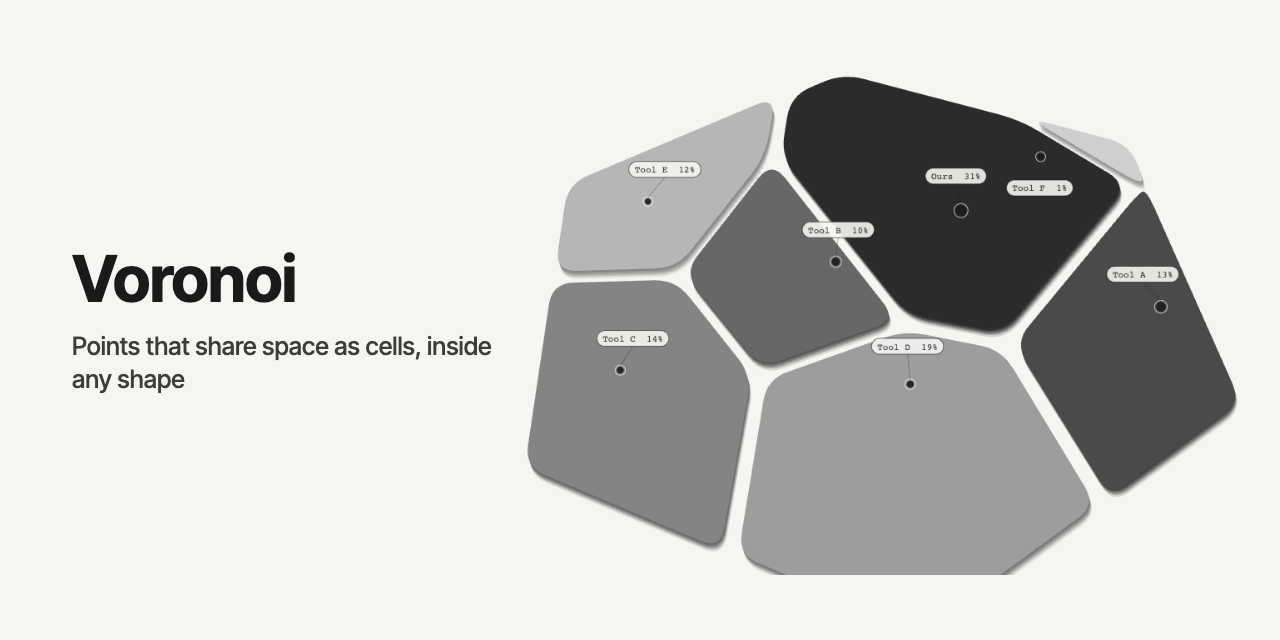
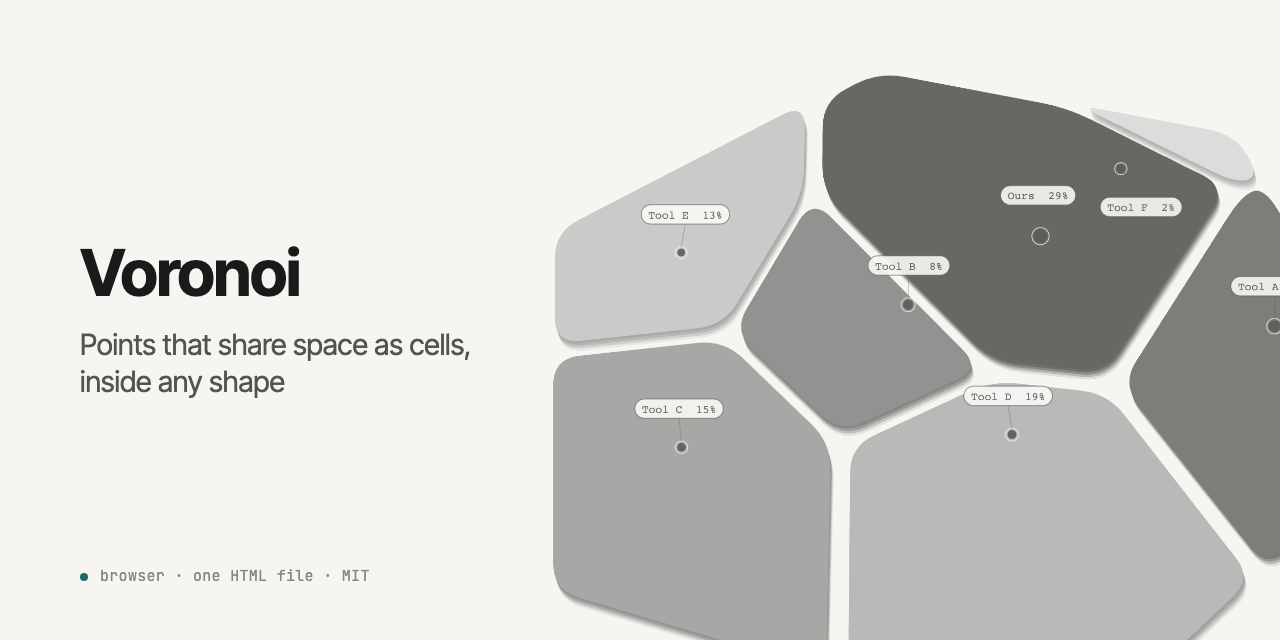
Cover, preview and search-friendly description

diff --git a/index.html b/index.html
@@ -91,7 +91,7 @@
   .cdot{width:14px;height:14px;padding:0;border:1px solid var(--line);border-radius:50%;background:none;cursor:pointer}
   body.noui #panel,body.noui #hint,body.noui #mtrans{display:none}
 </style>
[2 lines of base64/hex data omitted]
 <style>
 :root{--h-bg:#f6f5f2;--h-card:#ecebe6;--h-field:#ffffff;--h-ink:#1a1a1a;--h-ink2:#3d3c39;--h-ink3:#5c5b57;--h-fill:rgba(26,26,26,.07);--h-fill-hover:rgba(26,26,26,.10);--h-fill-strong:rgba(26,26,26,.15);--h-fill-active:rgba(26,26,26,.24);--h-hair:rgba(26,26,26,.10);--h-line:rgba(26,26,26,.14);--h-seg-on:#ffffff;--h-track-s:.02em;--h-ring:oklch(.49 .08 182);--h-sans:-apple-system,BlinkMacSystemFont,"SF Pro Text","SF Pro Display","Inter","Segoe UI",Roboto,Helvetica,Arial,sans-serif;--h-mono:ui-monospace,"SF Mono",SFMono-Regular,Menlo,Consolas,monospace;--h-display:"Inter Tight",-apple-system,BlinkMacSystemFont,"SF Pro Display",system-ui,sans-serif;
   --paper:var(--h-bg);--ink:var(--h-ink);--muted:var(--h-ink3);--line:var(--h-hair);--accent:var(--h-ink);--panel:var(--h-bg)}

diff --git a/README.md b/README.md
@@ -19,6 +19,11 @@
 
 Every point holds its territory. Give one more weight and it pushes the borders; relax them all and the cells settle into a honeycomb.
 
+## Use it for
+
+- market share as territory
+- cell patterns for a brand or a print
+
 ## What it does
 
 - **Weighted cells:** a heavier point takes more space
@@ -39,26 +44,26 @@ Take it if you want it.
 
 ## More tools
 
+- [GONE](https://github.com/robvagin/gone-player) · a macOS player for the thirty minutes before a DJ set
+- [PSP Engine](https://github.com/robvagin/shar-psp-engine) · a native engine that runs a PS2 game on the PSP. Not an emulator
 - [Particle Dance](https://github.com/robvagin/particle-dance) · particles that dance along patterns and 3D forms
+- [XYZ Cube](https://github.com/robvagin/xyz-cube) · your data as points in a 3D cube on axes you name
+- [Pack Label](https://github.com/robvagin/pack-label) · coffee bag labels, checked and ready for print
+- [Image Shuffler](https://github.com/robvagin/image-shuffler) · your screenshots flying in 3D, recorded as a video
+- [Sunburst](https://github.com/robvagin/sunburst) · a hierarchy as a 3D sunburst chart with height
+- [Halftone Cloud](https://github.com/robvagin/halftone-cloud) · images rebuilt as a halftone of flying shapes
+- [Motion Primer](https://github.com/robvagin/motion-primer) · bodies that swarm, orbit, fall and gather into a word
 - [Murmur](https://github.com/robvagin/murmur-vj) · a VJ visualizer: circles, triangles and squares that move to your music
+- [Particles 3D](https://github.com/robvagin/particles-3d) · a WebGL2 cloud of up to 300,000 particles
+- [Thinking Sphere](https://github.com/robvagin/thinking-sphere) · a glass sphere with soft shapes drifting inside
+- [Line Engine](https://github.com/robvagin/line-engine) · engraved line patterns in motion: Lissajous, rosettes, waves
 - [Orbital](https://github.com/robvagin/orbital) · data as orbits, axes or a bending mesh
 - [Metaballs](https://github.com/robvagin/metaballs) · soft masses that merge, split and leave holes
-- [Halftone Cloud](https://github.com/robvagin/halftone-cloud) · images rebuilt as a halftone of flying shapes
 - [Logomachine](https://github.com/robvagin/logomachine) · seeded generative marks: one seed, one pattern, always
-- [Motion Primer](https://github.com/robvagin/motion-primer) · bodies with behaviors: swarm, pack, magnet, orbit, fall, scatter
-- [Particles 3D](https://github.com/robvagin/particles-3d) · a WebGL2 cloud of up to 300,000 particles
-- [Orb Atom](https://github.com/robvagin/orb-atom) · glass orbs that think: lenses with soft bodies drifting inside
 - [Ellipse Sphere](https://github.com/robvagin/ellipse-sphere) · a sphere built from stacked discs that fan open and assemble
-- [Thinking Sphere](https://github.com/robvagin/thinking-sphere) · a glass sphere with soft shapes drifting inside
-- [SphereGen](https://github.com/robvagin/spheregen) · a glass sphere that bends whatever is behind it: generative scenes, photos, video
-- [Line Engine](https://github.com/robvagin/line-engine) · engraved line patterns: superformulas, rosettes, waves and Lissajous, in motion
-- [XYZ Cube](https://github.com/robvagin/xyz-cube) · your data as points in a 3D cube on axes you name
 - [Hexbin](https://github.com/robvagin/hexbin) · a point cloud counted into 3D hexagon towers
 - [Chart 3D](https://github.com/robvagin/chart-3d) · pie, bars, polar and area charts in 3D, with an entrance
-- [Sunburst](https://github.com/robvagin/sunburst) · a hierarchy as a 3D sunburst with height
-- [Image Shuffler](https://github.com/robvagin/image-shuffler) · your screens flying in 3D, ready to record as a video
 - [Motion Pad](https://github.com/robvagin/motion-pad) · one pad for the character of motion
-- [Pack Label](https://github.com/robvagin/pack-label) · one label per coffee lot, checked and ready for print
 
 ## License
 
